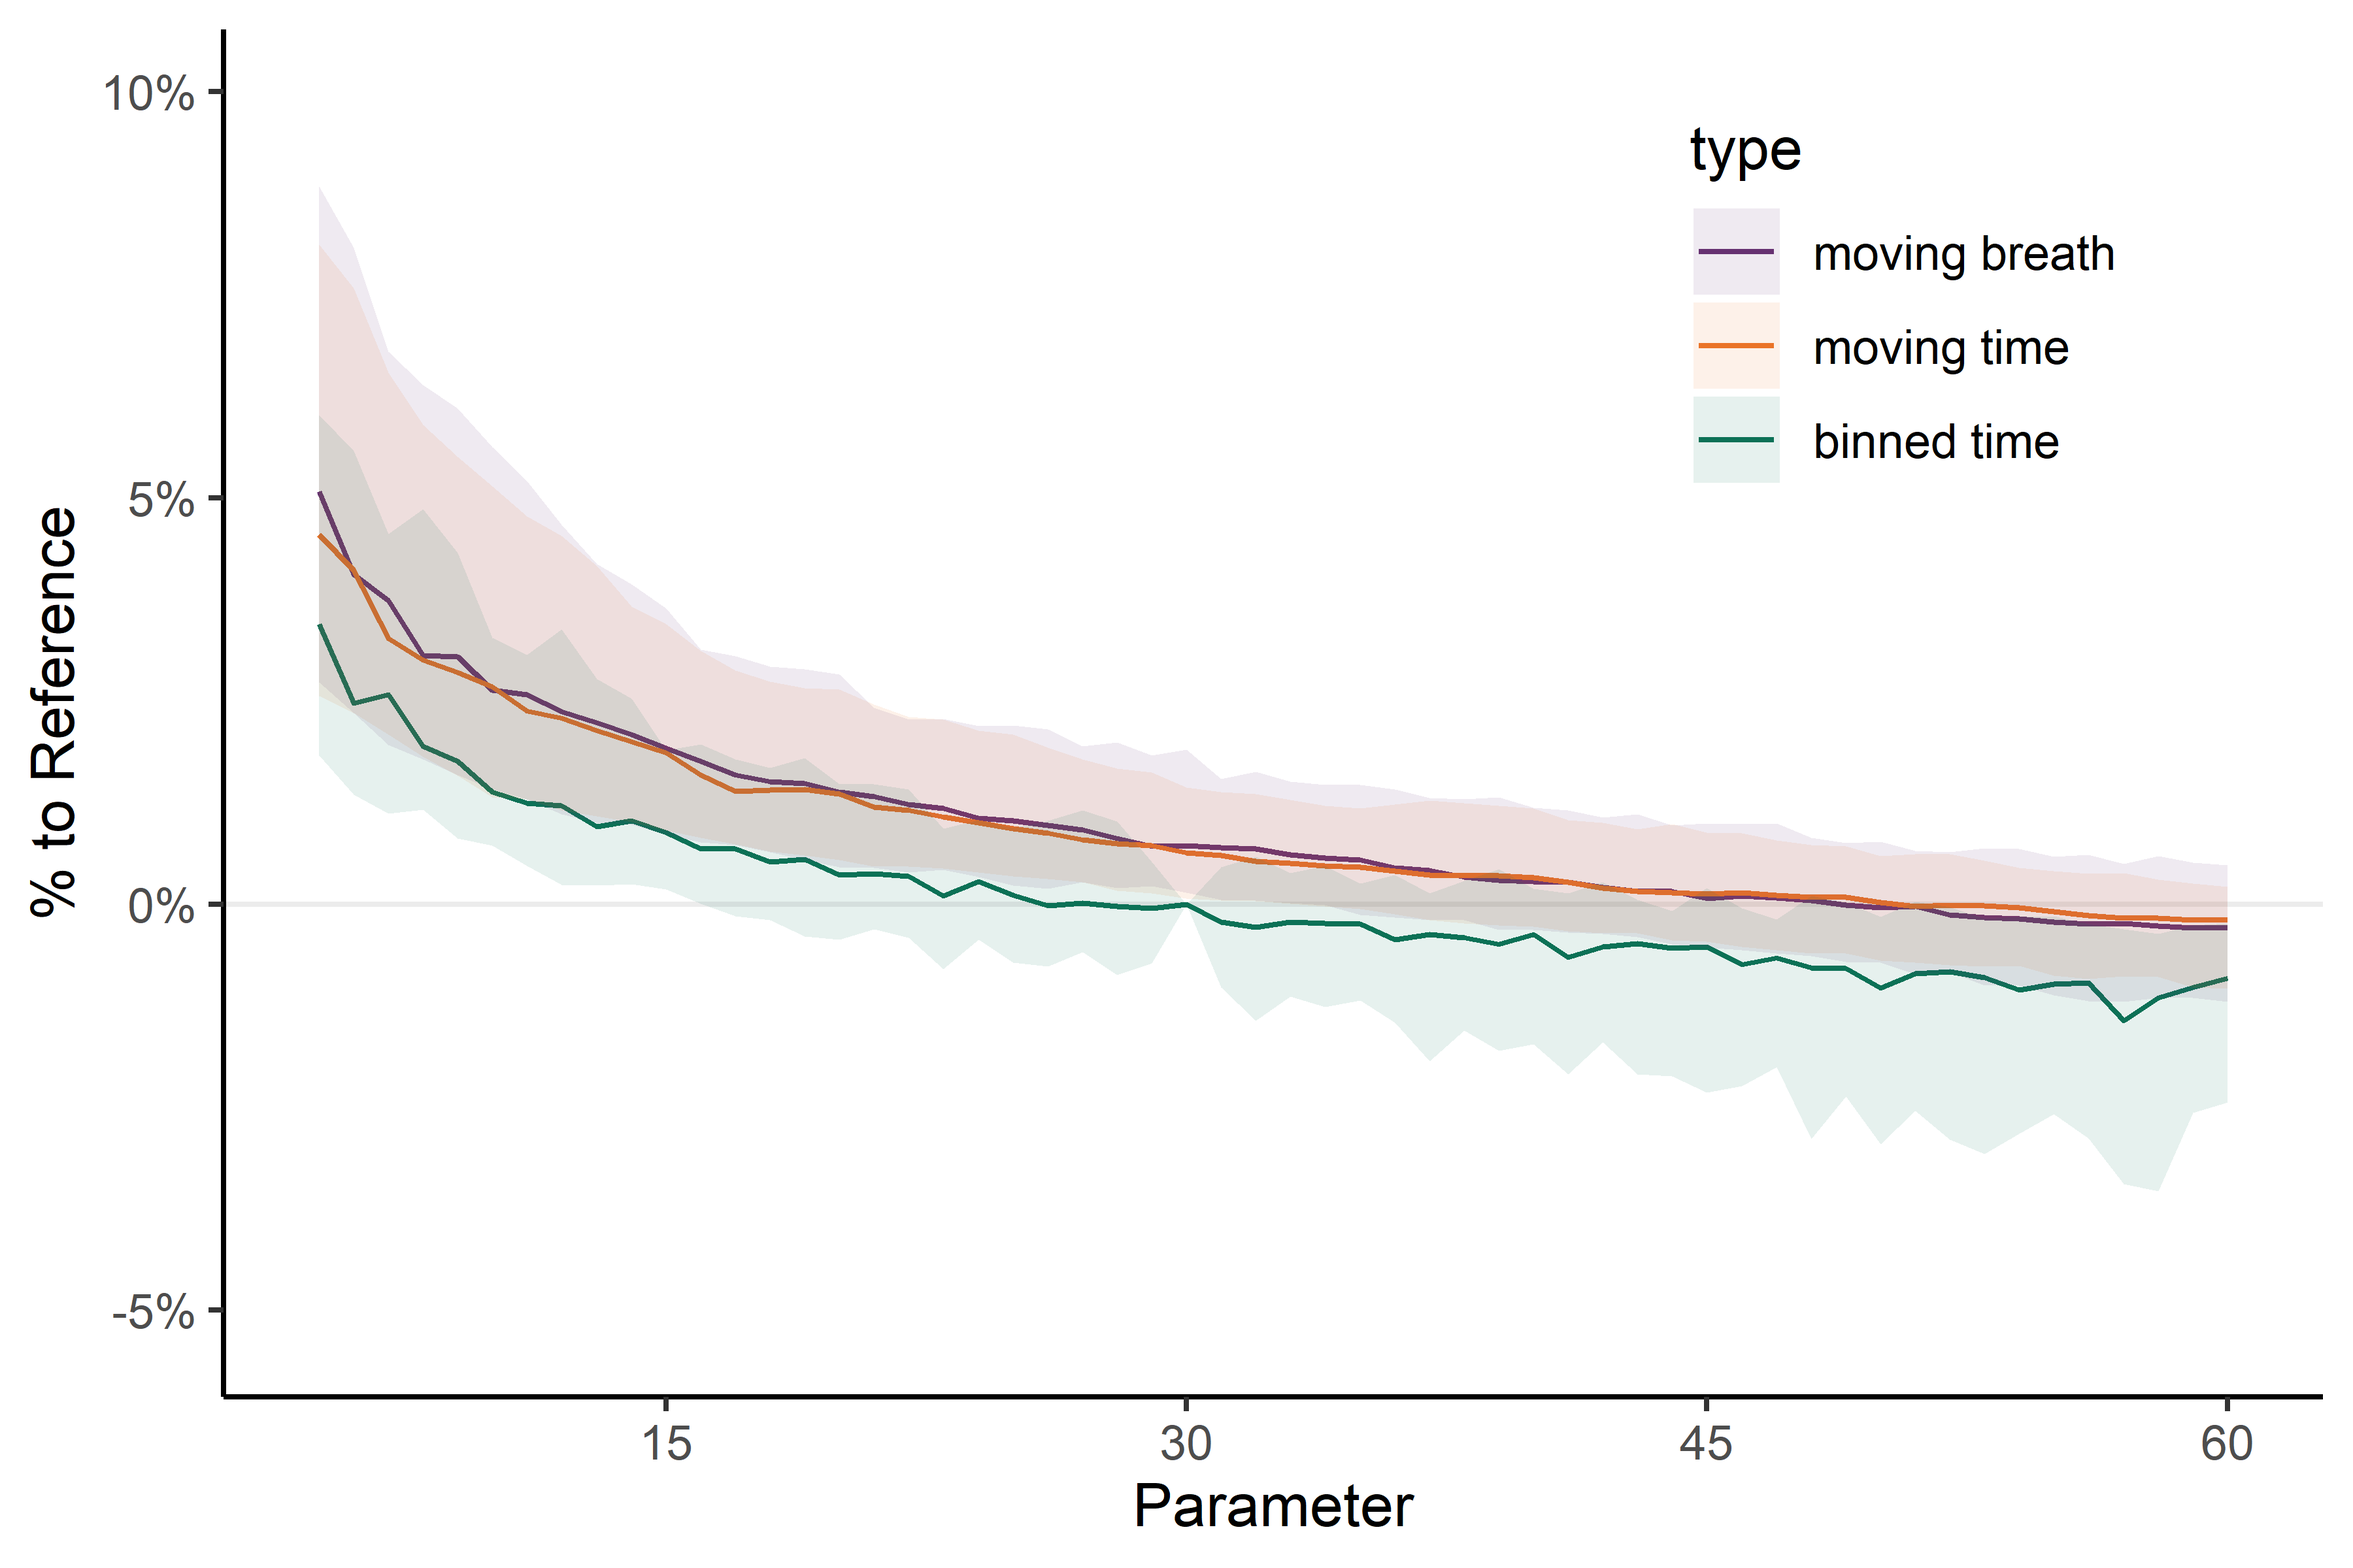
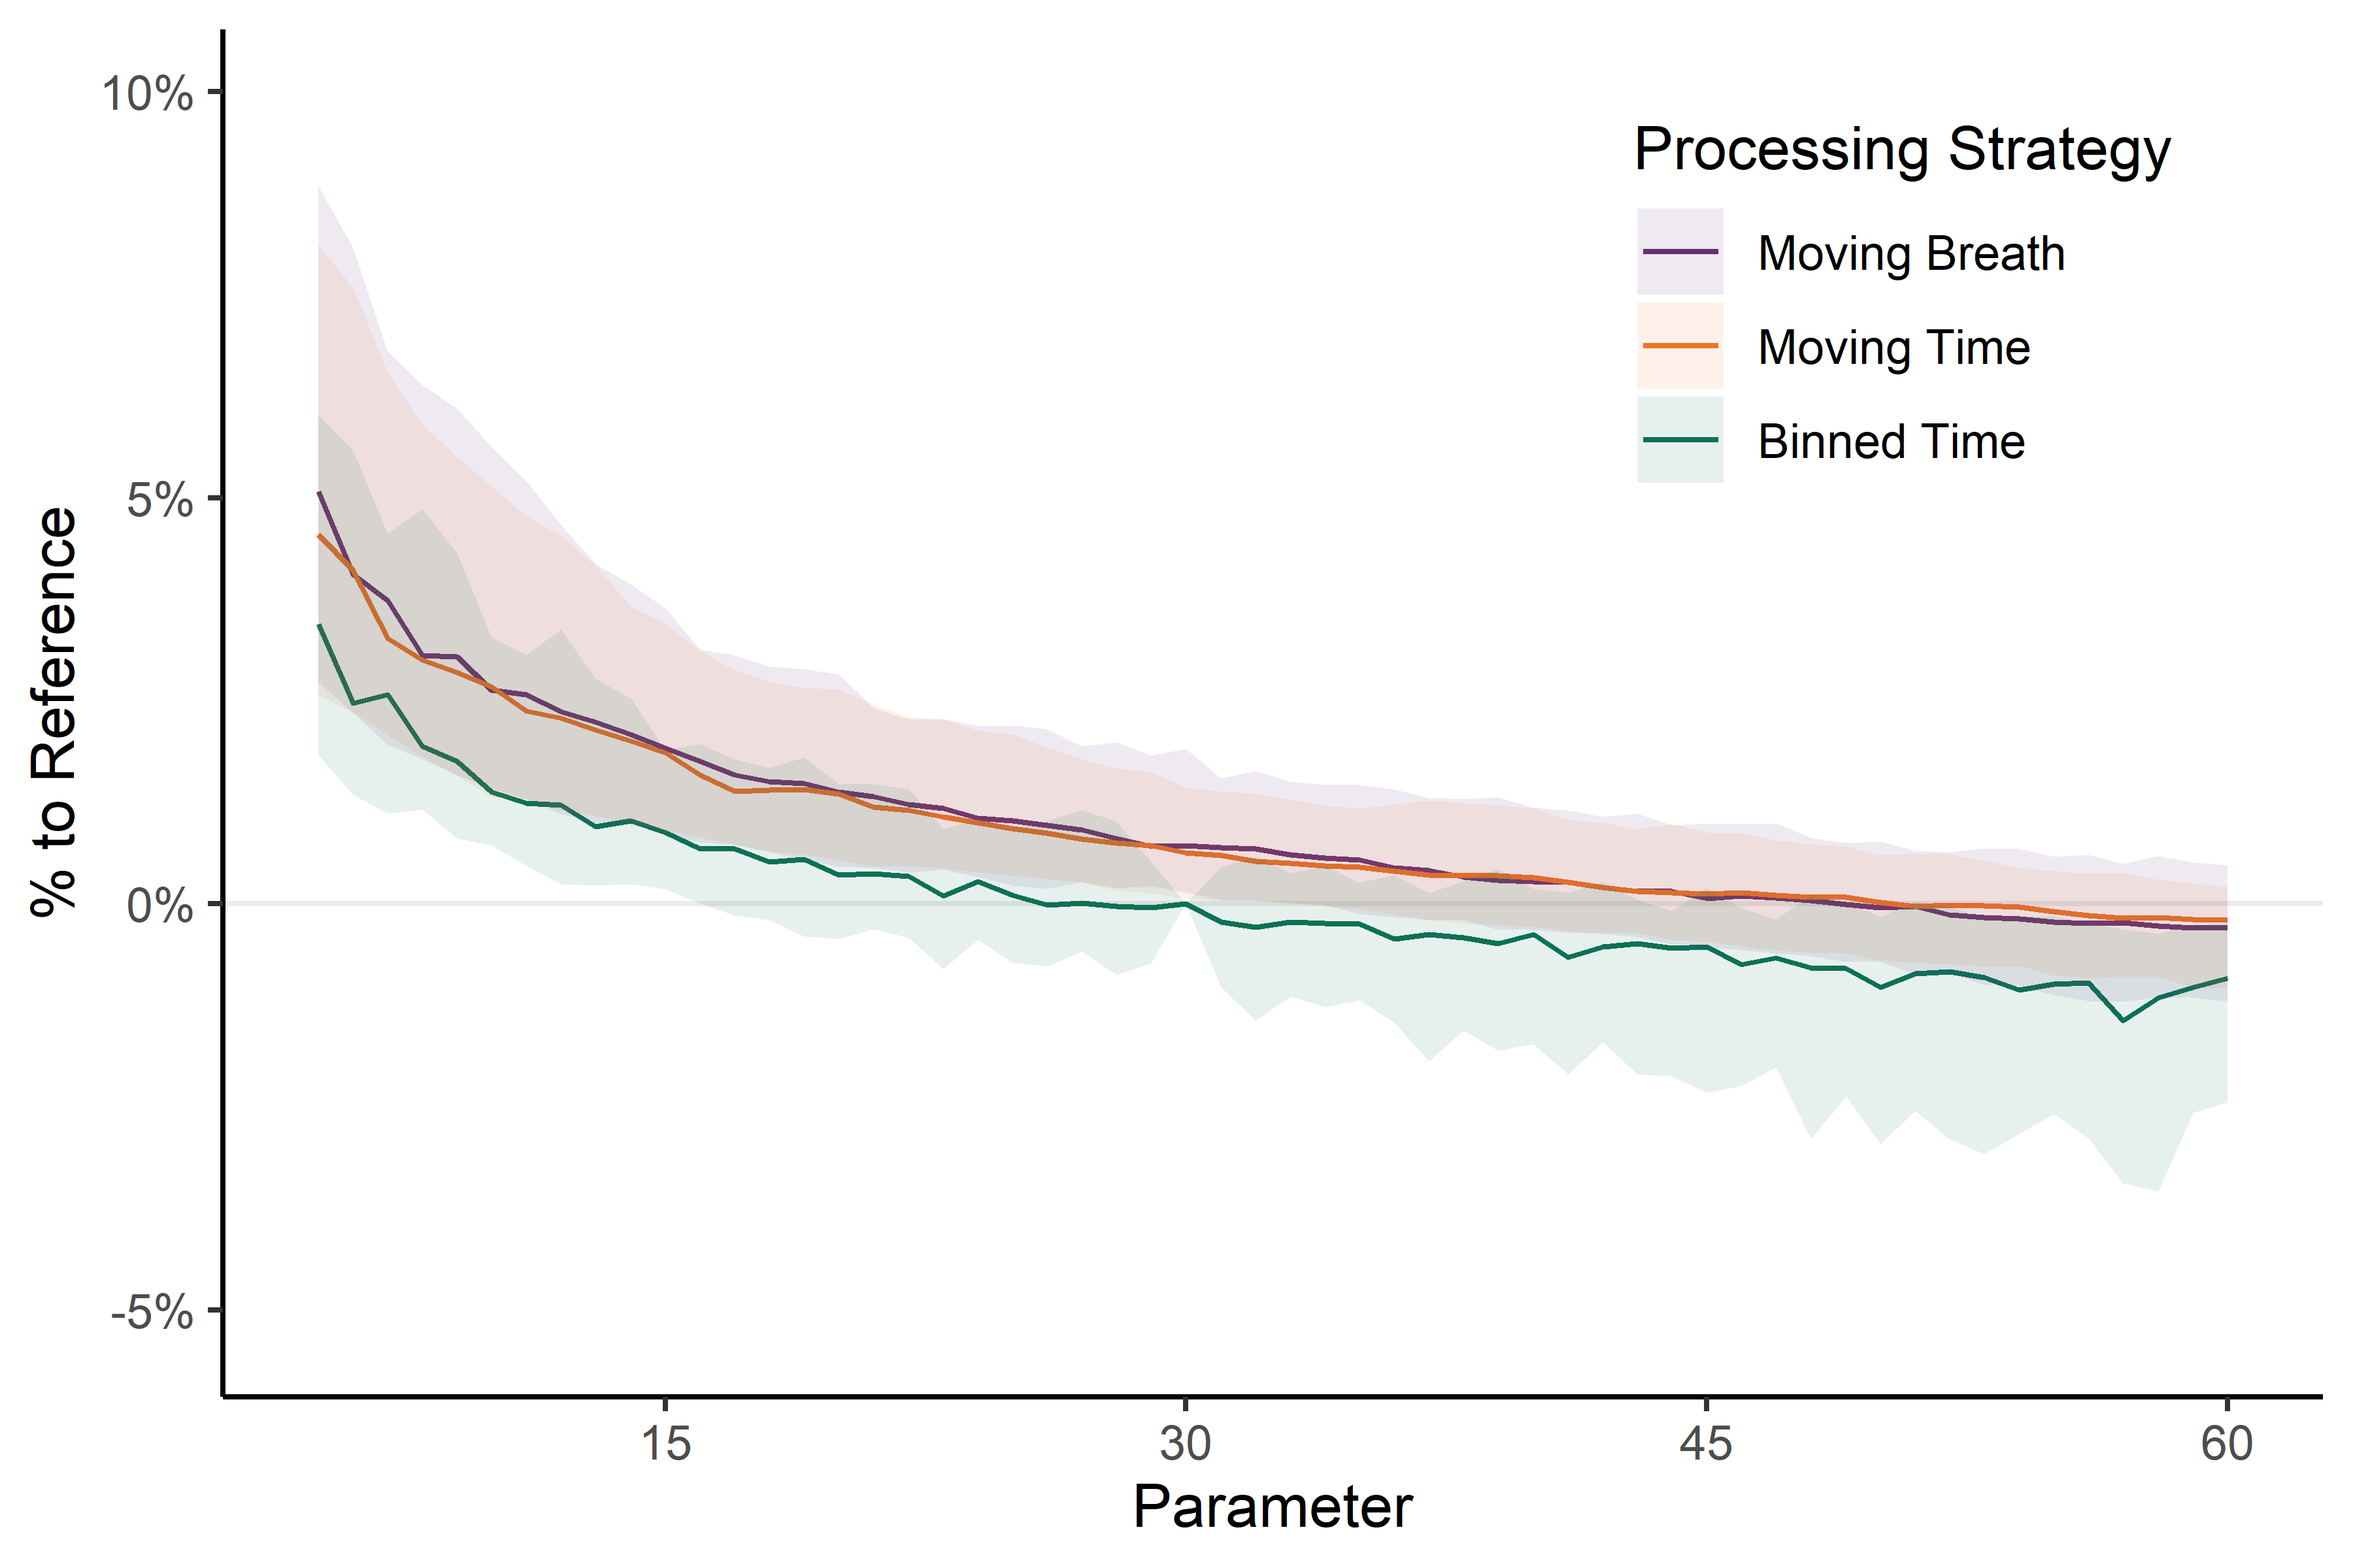
Update plots

diff --git a/scripts/comparison.md b/scripts/comparison.md
@@ -16,16 +16,6 @@ library(spiro)
 library(tidyr)
 library(ggplot2)
 library(scales)
-```
-
-    ## 
-    ## Attaching package: 'scales'
-
-    ## The following object is masked from 'package:purrr':
-    ## 
-    ##     discard
-
-``` r
 library(MetBrewer)
 
 # Get data files
@@ -129,7 +119,7 @@ res_tidy <- pivot_longer(
     parameter = ~ as.numeric(.x),
     type = ~ factor(.x, 
       levels = c("bm", "tm", "tb"), 
-      labels = c("moving breath", "moving time", "binned time")
+      labels = c("Moving Breath", "Moving Time", "Binned Time")
     )
   )
 )
@@ -174,9 +164,11 @@ p_comp <- ggplot(res_tidy, aes(x = parameter, y = perdiff, colour = type, fill =
     limits = c(-0.053,0.1)
   ) +
   scale_color_manual(
+    name = "Processing Strategy",
     values = met.brewer("Java", 3)
   ) +
   scale_fill_manual(
+    name = "Processing Strategy",
     values = met.brewer("Java", 3)
   ) +
   theme_classic() +
@@ -184,7 +176,7 @@ p_comp <- ggplot(res_tidy, aes(x = parameter, y = perdiff, colour = type, fill =
     legend.position = c(0.8,0.8)
   )
 
-# ggsave(p_comp, "../plots/comparison.png", width = 6, height = 4, dpi = 600, bg = "white")
+# ggsave("../plots/comparison.png", plot = p_comp, width = 6, height = 4, dpi = 600, bg = "white")
 
 knitr::include_graphics("../plots/comparison.png")
 ```
@@ -244,7 +236,7 @@ p_rr <- ggplot(rr_all, aes(x = time, y = value, colour = is_end, alpha = is_end)
   ) +
   theme_classic()
 
-# ggsave(p_rr, filename = "../plots/rr.png", width = 6, height = 4, dpi = 600, bg = "white")
+# ggsave(filename = "../plots/rr.png", plot = p_rr, width = 6, height = 4, dpi = 600, bg = "white")
 
 knitr::include_graphics("../plots/rr.png")
 ```
@@ -276,17 +268,18 @@ exm_tidy <- data.frame(
 exm_tidy$method <- factor(
   exm_tidy$method, 
   levels = c("raw", "mb", "mt", "tb", "fz"), 
-  labels = c("raw", "Moving Breath", "Moving Time", "Binned Time", "Digital Filter")
+  labels = c("raw","Moving Breath","Moving Time","Binned Time", "Digital Filter"),
+  ordered = TRUE
 )
 exm_tidy$value <- exm_tidy$value / bodymass
 
 p_ex <- ggplot(exm_tidy, aes(x = time)) +
   geom_point(data = exm_tidy[exm_tidy$method == "raw", ], aes(y = value), alpha = 0.1) +
-  geom_line(data = exm_tidy[exm_tidy$method %in% c("Moving Time", "Moving Breath", "Digital Filter"), ], aes(y = value, color = method), size = 0.7) +
-  geom_point(data = exm_tidy[exm_tidy$method == "Binned Time", ], aes(y = value, fill = method), color = met.brewer("Java", 3)[3], size = 1.2) +
+  geom_line(data = exm_tidy[exm_tidy$method %in% c("Moving Breath", "Moving Time", "Digital Filter"), ], aes(y = value, color = method), size = 0.7) +
+  geom_point(data = exm_tidy[exm_tidy$method == "Binned Time", ], aes(y = value, fill = method, colour = "Binned Time"), size = 1.4) +
   scale_x_continuous(
     name = "Time (min)",
-    limits = c(500,850),
+    limits = c(500,860),
     breaks = c(540, 630, 720),
     labels = c(8, 10, 12),
     expand = c(0,0)
@@ -296,19 +289,28 @@ p_ex <- ggplot(exm_tidy, aes(x = time)) +
     limits = c(55,75)
   ) +
   scale_color_manual(
-    name = "",
-    values = c(met.brewer("Java", 3)[1:2], "blue")
+    name = "Processing Strategy",
+    values = c(met.brewer("Java", 3)[3], "blue", met.brewer("Java", 3)[c(1,2)]),
+    labels = c("Binned Time", "Digital Filter","Moving Time","Moving Breath"),
+    guide = guide_legend(
+      reverse = TRUE,
+      override.aes = list(
+        linetype = c(rep.int("solid", 3), "blank"),
+        shape = c(rep.int(NA, 3), 19),
+        color = c(met.brewer("Java", 3)[c(1,2)], "blue", met.brewer("Java", 3)[3])
+      )
+    )
   ) +
    scale_fill_manual(
-    name = "",
-    values = "white"
+    values = "white",
+    guide = "none"
   ) +
   theme_classic() +
   theme(
-    legend.position = c(0.9, 0.55),
+    legend.position = c(0.88, 0.6),
   )
 
-# ggsave(p_ex, filename = "../plots/example.png", width = 6, height = 4, dpi = 1200, bg = "white")
+# ggsave(filename = "../plots/example.png", plot = p_ex, width = 6, height = 4, dpi = 1200, bg = "white")
 
 knitr::include_graphics("../plots/example.png")
 ```

diff --git a/scripts/review.md b/scripts/review.md
@@ -509,7 +509,7 @@ p_int <- ext[ext$ptype == "time" & !is.na(ext$ptype), ] |>
      axis.ticks.y = element_line(colour = "grey", size = 0.5)
     )
 
-# ggsave(p_int, "../plots/duration_count.png", width = 5, height = 3, dpi = 600, bg = "white")
+# ggsave("../plots/duration_count.png", plot = p_int, width = 5, height = 3, dpi = 600, bg = "white")
 
 knitr::include_graphics("../plots/duration_count.png")
 ```
@@ -546,7 +546,7 @@ p_strat <- ggplot(ext_count, aes(area = n, fill = proc_combination, label = labe
     values = colorspace::lighten(c("#663171", "#ea7428", "#653151", "#0c7156", "#0c7182"), amount = 0.2)
   )
 
-# ggsave(p_strat, "../plots/strategies.png", width = 5, height = 3, dpi = 600, bg = "white")
+# ggsave("../plots/strategies.png", plot = p_strat, width = 5, height = 3, dpi = 600, bg = "white")
 
 knitr::include_graphics("../plots/strategies.png")
 ```
